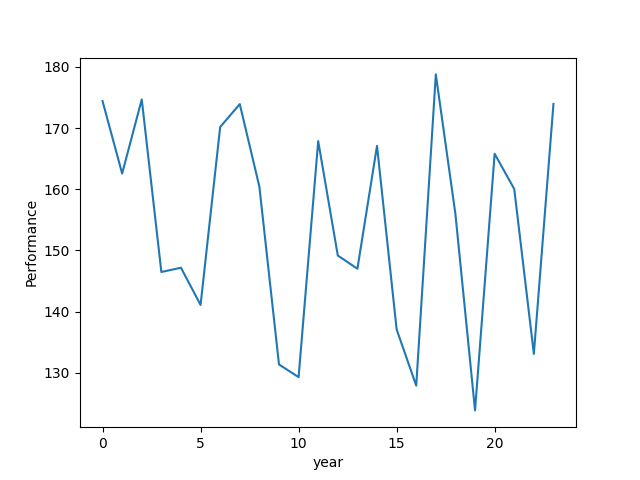
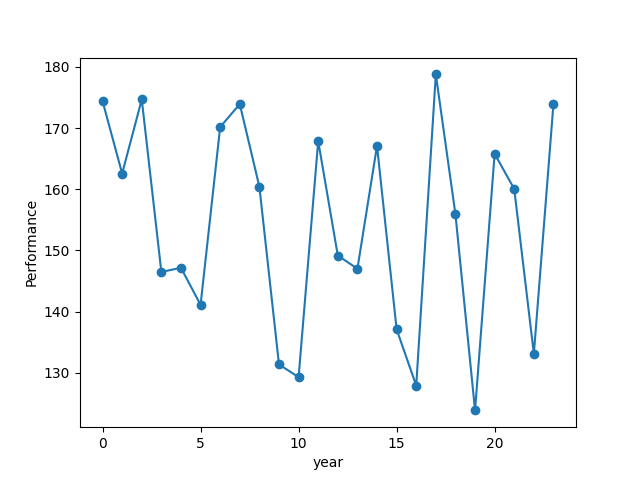
graphs improved

diff --git a/templates/index.html b/templates/index.html
@@ -47,6 +47,14 @@
         .input-field {
             margin-bottom: 20px;
         }
+        .text-box {
+        background-color: #f0e6fa; /* Setting background color to distinguish from the graph */
+        padding: 5px; /* Adding padding for better readability */
+        width: fit-content; /* Make the width of the text box fit the content */
+        margin-bottom: 10px; /* Add margin to create space between text box and graph */
+        text-align: center; /* Center-align the text */
+        }
+
         input[type="text"], input[type="submit"], select {
             width: calc(100% - 20px);
             padding: 15px; /* Increased padding for larger buttons */
@@ -75,6 +83,8 @@
             margin-top: 20px;
             text-align: center;
             display: flex;
+           flex-direction: column;
+            align-items: center;
         }
         .graph-box img {
             max-width: 100%;
@@ -100,6 +110,28 @@
             flex-direction: column;
             justify-content: center;
             align-items: center;
+        }
+        .loading {
+            margin-top: 20px;
+            font-size: 20px;
+            color: #666; /* Grey text */
+        }
+        @keyframes spinner {
+            0% {
+                transform: rotate(0deg);
+            }
+            100% {
+                transform: rotate(360deg);
+            }
+        }
+        .spinner {
+            display: inline-block;
+            width: 40px;
+            height: 40px;
+            border: 4px solid rgba(0, 0, 0, 0.1);
+            border-radius: 50%;
+            border-top-color: #333;
+            animation: spinner 0.6s linear infinite;
         }
     </style>
 </head>
@@ -153,10 +185,12 @@
         function collectData() {
             var numCompanies = parseInt(document.getElementById('numCompanies').value);
             var companies = [];
+            var tickers = []
 
             for (var i = 1; i <= numCompanies; i++) {
                 var ticker = document.getElementById('company' + i + 'Ticker').value;
                 var name = document.getElementById('company' + i + 'Name').value;
+                tickers.push(ticker);
                 companies.push([ticker, name]);
             }
 
@@ -178,22 +212,30 @@
             })
             .then(response => {
                 // Handle response
-                    displayGraphs(numCompanies);
+                    displayGraphs(numCompanies,tickers);
             })
             .catch(error => {
                 // Handle error
                 console.error('Error:', error);
             });
+
+            setTimeout(function() {
+                // Post data to server
+                displayGraphs(numCompanies);
+            }, 2000); // 2000 milliseconds = 2 seconds
         }
 
         // Function to display graphs based on the number of companies
-        function displayGraphs(numCompanies) {
+        function displayGraphs(numCompanies,tickers) {
             var graphContainer = document.getElementById('graphContainer');
             graphContainer.innerHTML = ''; // Clear previous graphs
 
             for (var i = 1; i <= numCompanies ; i++) {
                 var graphBox = document.createElement('div');
                 graphBox.className = 'graph-box';
+                var textBox = document.createElement('div');
+                textBox.textContent = 'Graph for ' + tickers[i-1];
+                graphBox.appendChild(textBox);
                 var graphImg = document.createElement('img');
                 graphImg.src = '../static/graph_' + i + '.png'; // Assuming graph images are named as graph_1.png, graph_2.png, etc.
                 graphImg.alt = 'Graph ' + i;
@@ -204,6 +246,10 @@
     </script>
 </body>
 </html>
+
+
+
+
 
 
 

diff --git a/visualizer.py b/visualizer.py
@@ -39,7 +39,7 @@ if not os.path.exists(static_dir):
 graph_name = "graph_{}.png".format(len(os.listdir(static_dir)) + 1)
 graph_path = os.path.join(static_dir, graph_name)
 
-plt.plot(vals)
+plt.plot(vals, marker = 'o')
 plt.xlabel("year")
 plt.ylabel("Performance")
 plt.savefig(graph_path)  # Save the image in the 'static' folder
